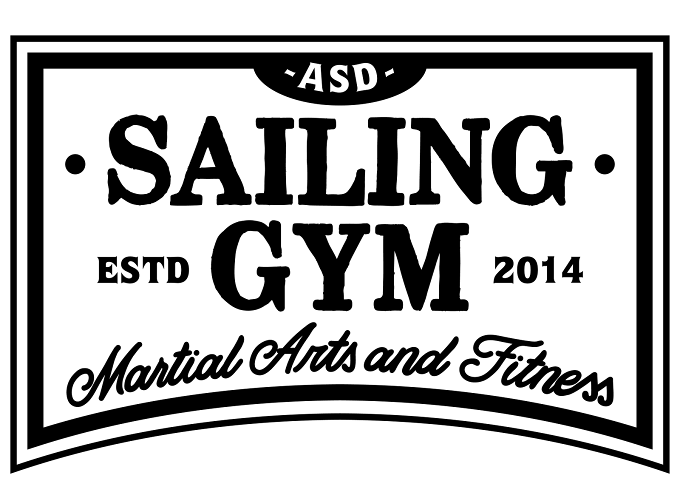
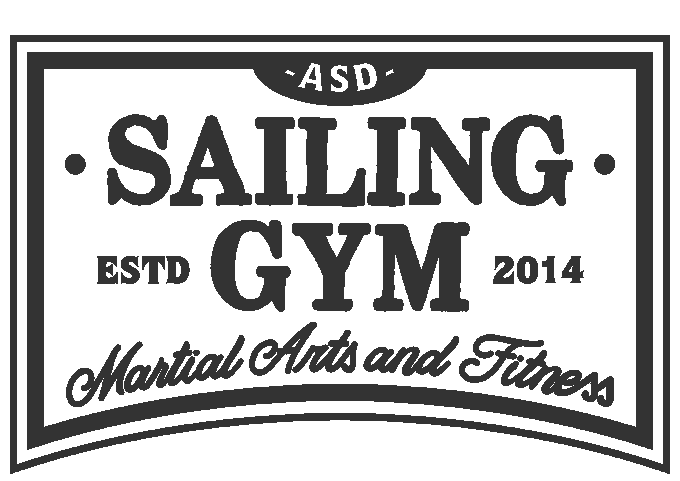
custom gray everywhere

diff --git a/ninniku_dojo.html b/ninniku_dojo.html
@@ -127,11 +127,11 @@
 
     <div class="container">
         <div class="row d-flex align-items-center justify-content-center">
-            <iframe class="col-12 col-md-6" height="350" style="border:0;" allowfullscreen="" loading="lazy" referrerpolicy="no-referrer-when-downgrade" src="https://www.google.com/maps/embed?pb=!1m18!1m12!1m3!1d49454.287777606536!2d9.1124147!3d39.2225961!2m3!1f0!2f0!3f0!3m2!1i1024!2i768!4f13.1!3m3!1m2!1s0x12e735467c2f7f8b%3A0xb3a41bb65df55aa1!2sSakushinkan%20Ninniku%20Dojo!5e0!3m2!1sen!2sit!4v1732548719626!5m2!1sen!2sit"></iframe>
+            <iframe class="col-12 col-md-6" height="250" style="border:0;" allowfullscreen="" loading="lazy" referrerpolicy="no-referrer-when-downgrade" src="https://www.google.com/maps/embed?pb=!1m18!1m12!1m3!1d49454.287777606536!2d9.1124147!3d39.2225961!2m3!1f0!2f0!3f0!3m2!1i1024!2i768!4f13.1!3m3!1m2!1s0x12e735467c2f7f8b%3A0xb3a41bb65df55aa1!2sSakushinkan%20Ninniku%20Dojo!5e0!3m2!1sen!2sit!4v1732548719626!5m2!1sen!2sit"></iframe>
             <div class="col-12 col-md-6 mt-3 mt-md-0 text-center">
-                <h3><a class="skk-link link grey" href="https://sakushinkan.it/sedi#ninniku-dojo" target="_blank">Ninniku Dojo</a></h3>
-                <span><strong>Martedì e Giovedì 19.00 - 21.00</strong></span>
-                <img class="w-50" src="assets/img/sailing-gym.png" alt="Sailing Gym">
+                <h3><a class="grey-border link grey" href="https://sakushinkan.it/sedi#ninniku-dojo" target="_blank">Ninniku Dojo</a></h3>
+                <span><strong>Martedì e Giovedì 19.00 - 21.00</strong></span><br>
+                <img class="w-25" src="assets/img/sailing-gym.png" alt="Sailing Gym">
                 <p>Viale Elmas 59, Cagliari</p>
             </div>
         </div>

diff --git a/assets/css/styles.css b/assets/css/styles.css
@@ -4,11 +4,17 @@
 
 body {
     font-family: Arial, sans-serif;
-    background-color: #f8f9fa;
+    background-color: white;
+    color: var(--primary-color);
+}
+
+.container {
+    max-width: 1000px;
+    padding: 20px;
 }
 
 .header {
-    color: #fff;
+    color: white;
     text-align: center;
     padding: 0.5rem 0;
     font-size: 2.5rem;
@@ -26,10 +32,6 @@ body {
 
 .grey {
     color: var(--primary-color);
-}
-
-.black {
-    color: black;
 }
 
 .white-bg {
@@ -51,8 +53,8 @@ body {
     width: 100px;
 }
 
-.skk-link {
-    border: 2px solid black;
+.grey-border {
+    border: 2px solid var(--primary-color);
     border-radius: 10px;
     padding: 5px 10px;
 }
@@ -97,7 +99,7 @@ body {
     background: linear-gradient(to right, #ff512f, #dd2476);
     text-align: center;
     padding: 1rem 0;
-    color: #fff;
+    color: white;
     font-weight: bold;
     font-size: 1.2rem;
 }
@@ -111,12 +113,6 @@ body {
     font-weight: bold;
     font-size: 0.7rem;
     border-radius: 50%;
-}
-
-.container {
-    max-width: 1000px;
-    padding: 20px;
-    font-family: Arial, sans-serif;
 }
 
 .horizontal-line {

diff --git a/stage_301124.html b/stage_301124.html
@@ -140,7 +140,7 @@
                 </div>
                 <h2>Prova il Nio Shin Ryu Kempo</h2>
                 <p><b>Orario:</b> 9:30 - 12:30</p>
-                <p>Il Nio Shin Ryu Kempo è la disciplina perfetta per chi vuole immergersi nella filosofia e nelle <b>tecniche del combattimento giapponese</b>, trasmesse dal <a class="black" href="https://www.sakushinkan.it/seiun" target="_blank">venerabile monaco Seiun</a> e custoditi dal Sakushinkan Budo.</p>
+                <p>Il Nio Shin Ryu Kempo è la disciplina perfetta per chi vuole immergersi nella filosofia e nelle <b>tecniche del combattimento giapponese</b>, trasmesse dal <a class="grey" href="https://www.sakushinkan.it/seiun" target="_blank">venerabile monaco Seiun</a> e custoditi dal Sakushinkan Budo.</p>
                 <p>In questa sessione introduttiva, <b>scoprirai le basi del Nio Shin Ryu Kempo</b>, che integra combattimento a mani nude di percussione, prese e leve articolari, oltre l’utilizzo di armi tradizionali (come bastoni e spade).</p>
             </div>
             <div class="col-12 col-md-4 mb-3 mb-md-0 feature-box">

diff --git a/contatti.html b/contatti.html
@@ -98,7 +98,7 @@
             </div>
 
             <div class="col-5 col-md-6 mt-3 mt-md-0 text-center d-flex flex-column justify-content-center">
-                <h3><a class="link grey" href="https://sakushinkan.it/sedi#ninniku-dojo" target="_blank">Ninniku Dojo</a></h3>
+                <h3><a class="grey-border link grey" href="https://sakushinkan.it/sedi#ninniku-dojo" target="_blank">Ninniku Dojo</a></h3>
                 <span><strong>Martedì e Giovedì 19.00 - 21.00</strong></span>
                 <div class="w-25 d-none d-md-flex mx-auto"><img class="img-fluid" src="assets/img/sailing-gym.png" alt="Sailing Gym"></div>
                 <div class="w-50 d-flex d-md-none mx-auto"><img class="img-fluid" src="assets/img/sailing-gym.png" alt="Sailing Gym"></div>
